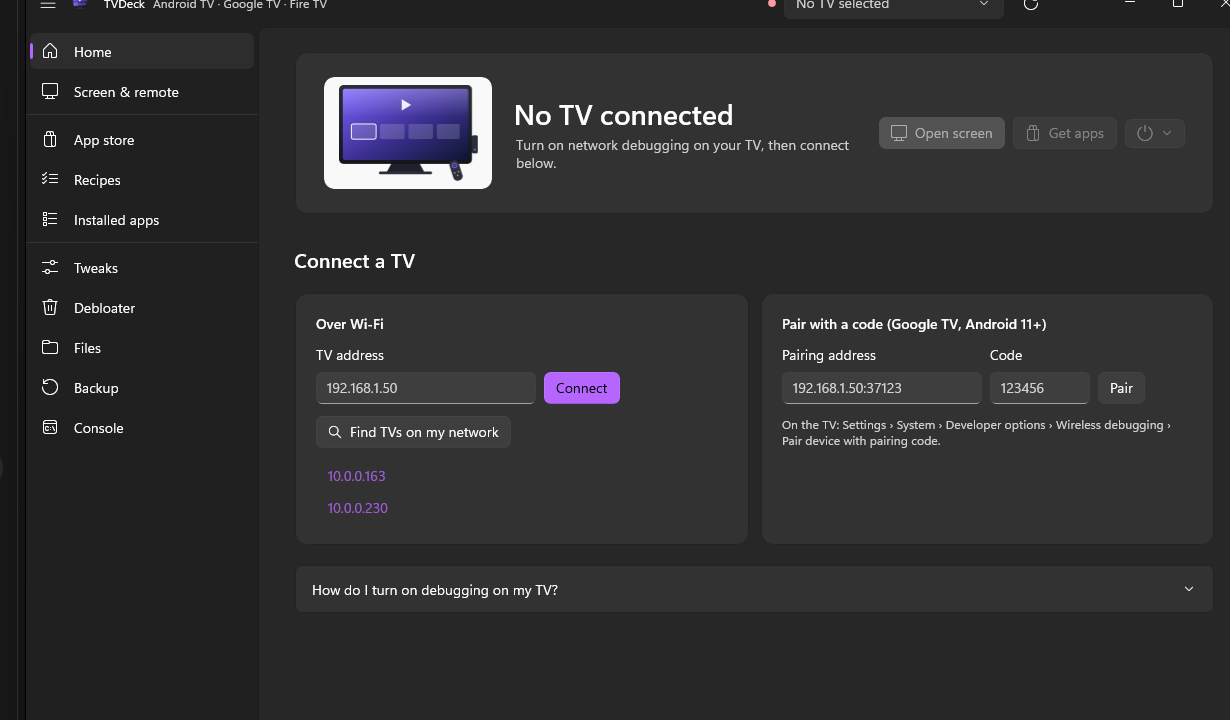
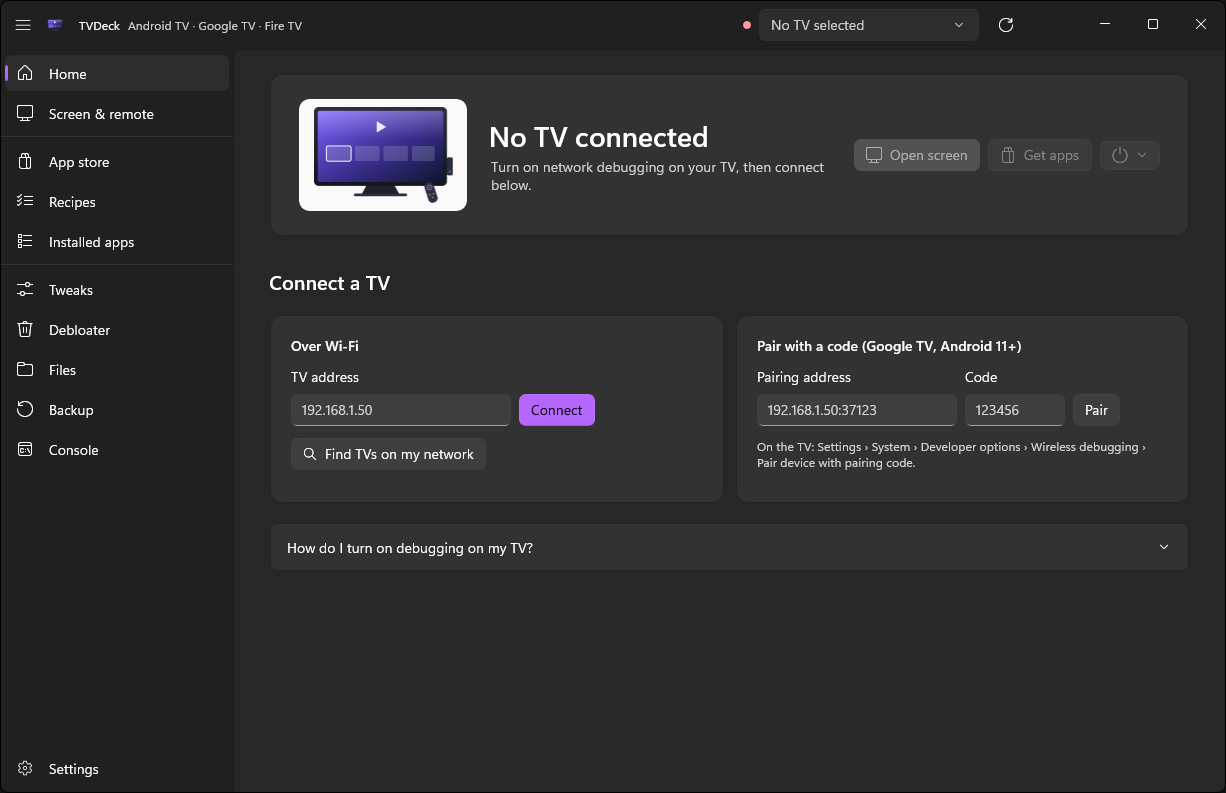
Add screenshots for all pages and gallery to README

diff --git a/README.md b/README.md
@@ -4,6 +4,24 @@ TVDeck is a Windows desktop application for managing Android TV, Google TV, and 
 
 ![TVDeck home screen](docs/screenshots/home.png)
 
+## Screenshots
+
+| Home | Screen & remote | App store |
+|------|----------------|-----------|
+| ![Home](docs/screenshots/home.png) | ![Screen and remote](docs/screenshots/screen-remote.png) | ![App store](docs/screenshots/app-store.png) |
+
+| Recipes | Tweaks | Debloater |
+|---------|--------|-----------|
+| ![Recipes](docs/screenshots/recipes.png) | ![Tweaks](docs/screenshots/tweaks.png) | ![Debloater](docs/screenshots/debloater.png) |
+
+| Files | Backup | Console |
+|-------|--------|---------|
+| ![Files](docs/screenshots/files.png) | ![Backup](docs/screenshots/backup.png) | ![Console](docs/screenshots/console.png) |
+
+| Settings |
+|----------|
+| ![Settings](docs/screenshots/settings.png) |
+
 ## Features
 
 - **Debloating** — Remove pre-installed apps from a curated list of packages verified safe to remove. Every removal is preceded by an automatic snapshot.
